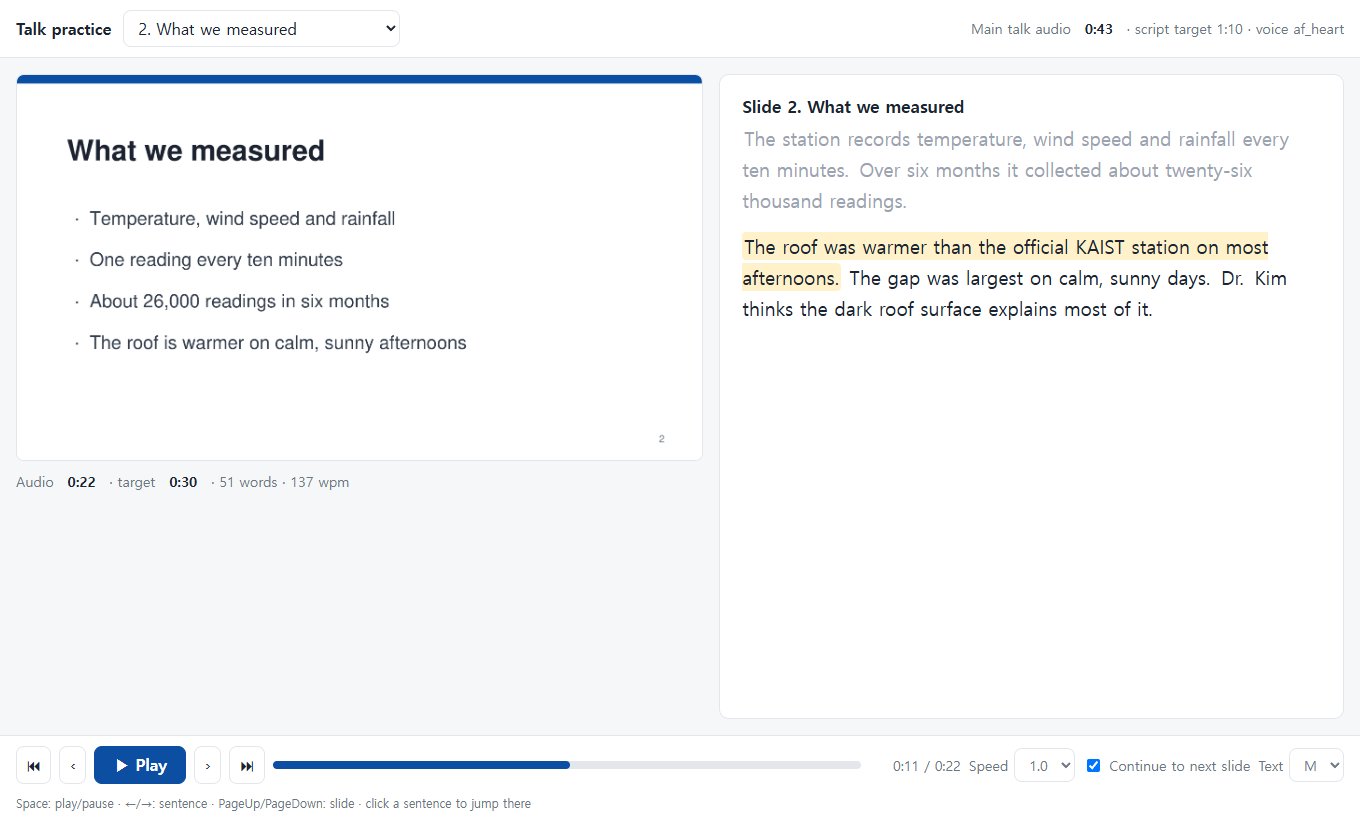
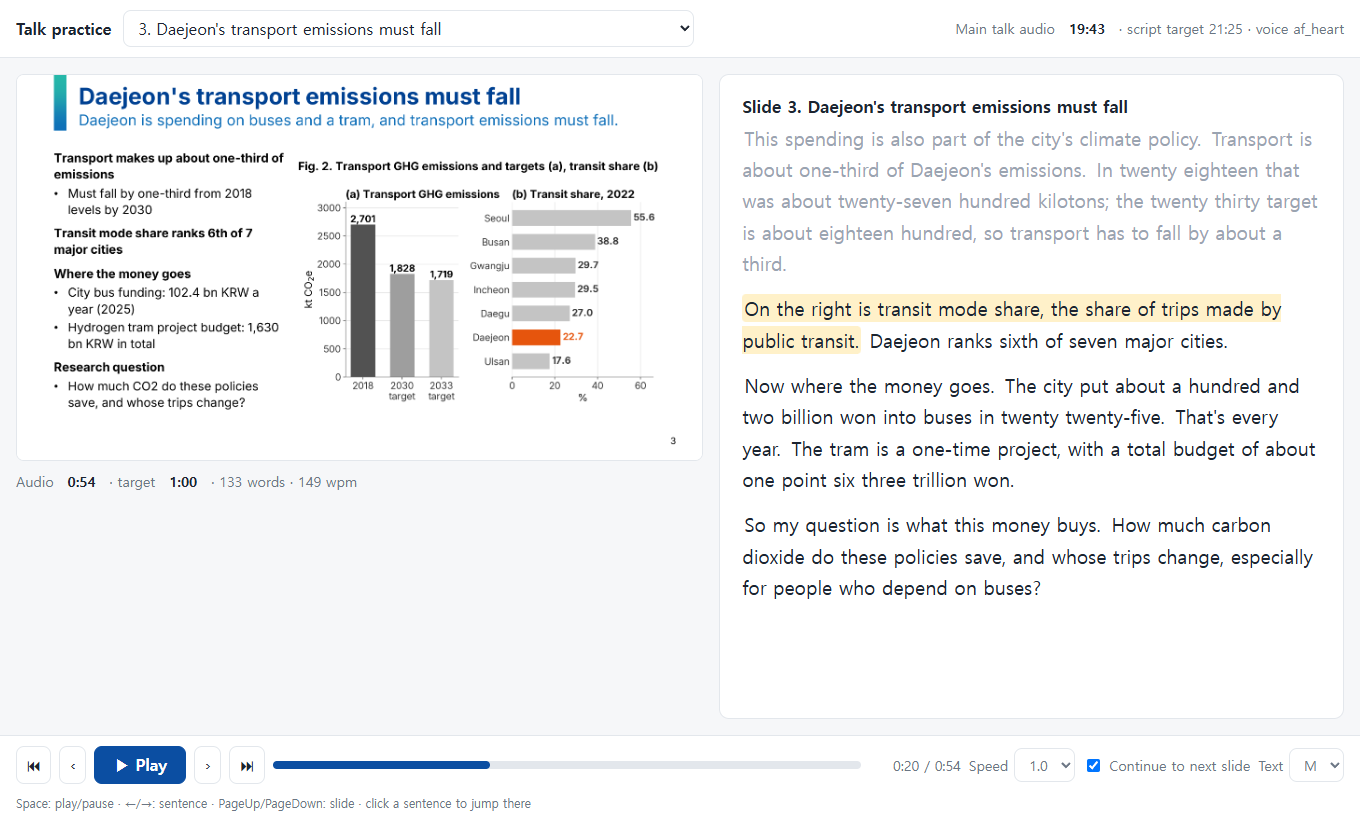
Shorten the README and use a real talk for the screenshot

diff --git a/README.md b/README.md
@@ -1,85 +1,41 @@
 # talk-practice-kit
 
-Practice an English talk on your own computer. You give the kit your script and your slide deck as a PDF, and it builds a web page with the slide on the left and the script on the right. A local text-to-speech model (Kokoro-82M) reads the script aloud, and the page highlights the sentence being read. Nothing is sent online: the script and the deck stay on your computer. The rest of this README is in Korean.
+Practice an English talk on your own computer. You give the kit your script and your slides as a PDF. It builds a page with the slide on the left and the script on the right, reads the script aloud with a local text-to-speech model (Kokoro-82M), and highlights the sentence being read. The script and the slides are never sent online. The rest of this README is in Korean.
 
-![Example app](docs/screenshot.png)
-
-## 무엇을 하나요
-
-영어 발표 스크립트(`script.md`)와 슬라이드 PDF를 넣으면 연습용 웹 페이지를 만들어 줍니다.
-
-- 왼쪽에 슬라이드, 오른쪽에 스크립트가 보입니다.
-- 로컬 TTS(Kokoro-82M, CPU)가 스크립트를 읽어 주고, 읽고 있는 문장이 강조됩니다.
-- 슬라이드별 음성 길이와 목표 시간을 비교해서 시간이 넘으면 표시합니다.
-- 서버 없이 `index.html`을 더블클릭하면 열립니다.
+![The practice page](docs/screenshot.png)
 
 ## 설치
 
-Python 3.12 또는 3.13이 필요합니다 (3.14는 아직 지원하지 않습니다). 디스크 여유 공간은 약 1.5 GB가 필요하고, 그중 모델 파일이 약 350 MB입니다.
+Python 3.12 또는 3.13이 필요합니다. 패키지와 모델 파일(350 MB)을 내려받느라 10분쯤 걸립니다.
 
 ```
 git clone https://github.com/jiheunha/talk-practice-kit.git
 cd talk-practice-kit
+py -3.13 setup_kit.py          # Windows
+python3.13 setup_kit.py        # macOS
 ```
 
-Windows:
-
-```
-py -3.13 setup_kit.py
-```
-
-macOS:
-
-```
-python3.13 setup_kit.py
-```
-
-`setup_kit.py`는 `.venv`를 만들고, `requirements.txt`의 패키지를 설치하고, `get_models.py`로 모델 파일 두 개를 `models/`에 내려받아 sha256을 확인합니다. 다시 실행해도 끝난 단계는 건너뜁니다.
-
-설치가 끝나면 예제 발표로 확인해 보세요 (1분 정도 걸립니다).
-
-Windows:
+설치가 끝나면 예제를 빌드하고 `example/app/index.html`을 Chrome에서 엽니다.
 
 ```
 .venv\Scripts\python build.py --script example/script.md --deck example/deck.pdf --out example/app
 ```
 
-macOS:
+macOS에서는 `.venv/bin/python`을 씁니다.
 
-```
-.venv/bin/python build.py --script example/script.md --deck example/deck.pdf --out example/app
-```
-
-그다음 `example/app/index.html`을 Chrome에서 엽니다.
-
-Claude Code를 쓴다면 [PROMPT_for_lab.md](PROMPT_for_lab.md)의 프롬프트를 붙여 넣으면 설치부터 빌드까지 도와줍니다.
+Claude Code를 쓴다면 [PROMPT_for_lab.md](PROMPT_for_lab.md)의 프롬프트를 붙여 넣으세요. 설치부터 첫 빌드까지 도와줍니다.
 
 ## 내 발표 만들기
 
-1. `talks/<이름>/` 폴더를 만들고 `script.md`와 `deck.pdf`를 넣습니다.
-2. 빌드합니다 (macOS에서는 `.venv/bin/python`).
+`talks/<이름>/`에 `script.md`와 `deck.pdf`를 넣고 빌드합니다.
 
 ```
 .venv\Scripts\python build.py --script talks/<이름>/script.md --deck talks/<이름>/deck.pdf --out talks/<이름>/app
 ```
 
-3. `talks/<이름>/app/index.html`을 엽니다.
+`talks/<이름>/app/index.html`을 엽니다. 스크립트를 고친 뒤에는 같은 명령을 다시 실행하고 Ctrl+F5로 새로고침합니다. 바뀐 문장만 다시 합성합니다.
 
-발표마다 `app/` 폴더가 따로 생기므로 여러 발표를 나란히 둘 수 있습니다.
-
-옵션:
-
-| 옵션 | 기본값 | 설명 |
-| --- | --- | --- |
-| `--voice` | `af_heart` | Kokoro 음성 이름 (예: `af_bella`, `am_michael`) |
-| `--speed` | `0.85` | 합성 속도. 1.0이 모델의 기본 속도입니다 |
-| `--no-images` | | 슬라이드 이미지를 다시 만들지 않습니다 (`--deck` 생략 가능) |
-
-문장 사이에는 0.4초, 문단 사이에는 0.7초 쉽니다.
-
-### 스크립트를 고친 뒤
-
-같은 빌드 명령을 다시 실행하고, 브라우저에서 Ctrl+F5(macOS는 Cmd+Shift+R)로 새로고침합니다. 문장별 음성은 텍스트, 음성, 속도를 기준으로 `cache/`에 저장되므로 바뀐 문장만 다시 합성합니다. 슬라이드가 그대로라면 `--no-images`를 붙이면 더 빠릅니다.
+옵션: `--voice`(기본 `af_heart`), `--speed`(기본 `0.85`), `--no-images`(슬라이드 이미지를 다시 만들지 않음).
 
 ## 스크립트 형식
 
@@ -97,24 +53,12 @@ Today I will show you what we measured.
 The station records temperature every ten minutes.
 ```
 
-- 슬라이드는 `## Slide N. 제목 (m:ss)`로 시작합니다. `(m:ss)`는 그 슬라이드의 목표 시간이고, 음성이 이보다 길면 앱에 주황색으로 표시됩니다.
-- 목표 시간은 생략할 수 있습니다. 시간이 없는 슬라이드는 앱에서 appendix로 취급합니다. 전체 시간 합계에서 빠지고, 자동으로 다음 슬라이드로 넘어갈 때 그 앞에서 멈춥니다. 본 발표 슬라이드에는 시간을 적어 주세요.
-- 문단 사이에는 빈 줄을 둡니다. 한 문단은 한 줄로 씁니다.
-- `*...*`로 감싼 줄은 메모입니다. 앱에는 보이지만 읽지 않습니다. 슬라이드당 하나만 표시됩니다.
-- 숫자와 약어는 말하는 대로 적습니다. 예: `2030` 대신 `twenty thirty`, `KAIST`를 한 글자씩 읽으려면 `K-A-I-S-T`. 스크립트를 그대로 두고 싶으면 `pronunciation.tsv`에 한 줄 추가합니다.
-- 슬라이드 PDF는 슬라이드당 한 페이지, 스크립트와 같은 순서여야 합니다. PowerPoint의 "PDF로 저장"이면 됩니다. 애니메이션이 있는 슬라이드는 마지막 상태가 보입니다.
-
-### 발음 고치기 (`pronunciation.tsv`)
-
-탭으로 구분한 세 칸입니다: 쓴 형태, 읽는 형태, 메모.
-
-```
-QR	Q-R
-CO2	carbon dioxide
-Daejeon	/dˈɛʤʌn/	DEH-jun
-```
-
-읽는 형태는 그냥 영어로 적거나, 슬래시 사이에 misaki 음소를 적습니다. 대소문자를 구분하고 단어 전체가 일치할 때만 적용됩니다. 고친 뒤에는 다시 빌드합니다.
+- 슬라이드는 `## Slide N. 제목 (m:ss)`로 시작합니다. 시간은 그 슬라이드의 목표 시간이고, 음성이 더 길면 앱에 표시됩니다.
+- 시간은 생략할 수 있지만, 시간이 없는 슬라이드는 appendix로 취급합니다. 전체 합계에서 빠지고 자동 진행이 그 앞에서 멈춥니다.
+- 한 문단은 한 줄로 쓰고, 문단 사이에 빈 줄을 둡니다.
+- `*...*`로 감싼 줄은 메모입니다. 앱에는 보이고 읽지는 않습니다.
+- 숫자와 약어는 말하는 대로 적거나("twenty thirty", "K-A-I-S-T") `pronunciation.tsv`에 한 줄 추가합니다.
+- PDF는 슬라이드당 한 페이지, 스크립트와 같은 순서여야 합니다. PowerPoint의 "PDF로 저장"이면 됩니다. 애니메이션이 있는 슬라이드는 마지막 상태가 보입니다.
 
 ## 키보드 단축키
 
@@ -125,19 +69,10 @@ Daejeon	/dˈɛʤʌn/	DEH-jun
 | PageUp / PageDown | 이전 / 다음 슬라이드 |
 | 문장 클릭 | 그 문장부터 재생 |
 
-화면 아래에서 재생 속도, 글자 크기, 다음 슬라이드로 자동 진행 여부를 바꿀 수 있습니다. 다크 모드는 시스템 설정을 따릅니다.
-
 ## 개인정보
 
-모든 과정이 내 컴퓨터에서 실행됩니다. 스크립트와 슬라이드는 온라인으로 전송되지 않습니다. 인터넷은 설치할 때 패키지와 모델 파일을 내려받는 데만 씁니다.
-
-`talks/` 안의 파일은 `.gitignore`에 들어 있어서 실수로 commit되지 않습니다. 스크립트와 발표 자료는 `talks/` 안에 두세요.
+모든 과정이 내 컴퓨터에서 실행되고, 스크립트와 슬라이드는 온라인으로 전송되지 않습니다. 인터넷은 설치할 때만 씁니다. `talks/` 안의 파일은 README를 빼고 git에서 제외되니 발표 자료는 그 안에 두세요.
 
 ## 라이선스
 
-이 kit의 코드는 MIT 라이선스입니다 ([LICENSE](LICENSE)). 아래 구성 요소는 설치할 때 내려받으며 이 저장소에는 들어 있지 않습니다.
-
-- Kokoro-82M (모델): Apache-2.0
-- kokoro-onnx: MIT
-- misaki: Apache-2.0
-- 그 밖에 PyMuPDF(AGPL-3.0), espeak-ng(GPL-3.0), LAME(LGPL) 등은 각자의 라이선스를 따릅니다.
+이 kit은 MIT 라이선스입니다 ([LICENSE](LICENSE)). 설치할 때 내려받는 구성 요소는 각자의 라이선스를 따릅니다: Kokoro-82M(Apache-2.0), kokoro-onnx(MIT), misaki(Apache-2.0), PyMuPDF(AGPL-3.0), espeak-ng(GPL-3.0), LAME(LGPL).
